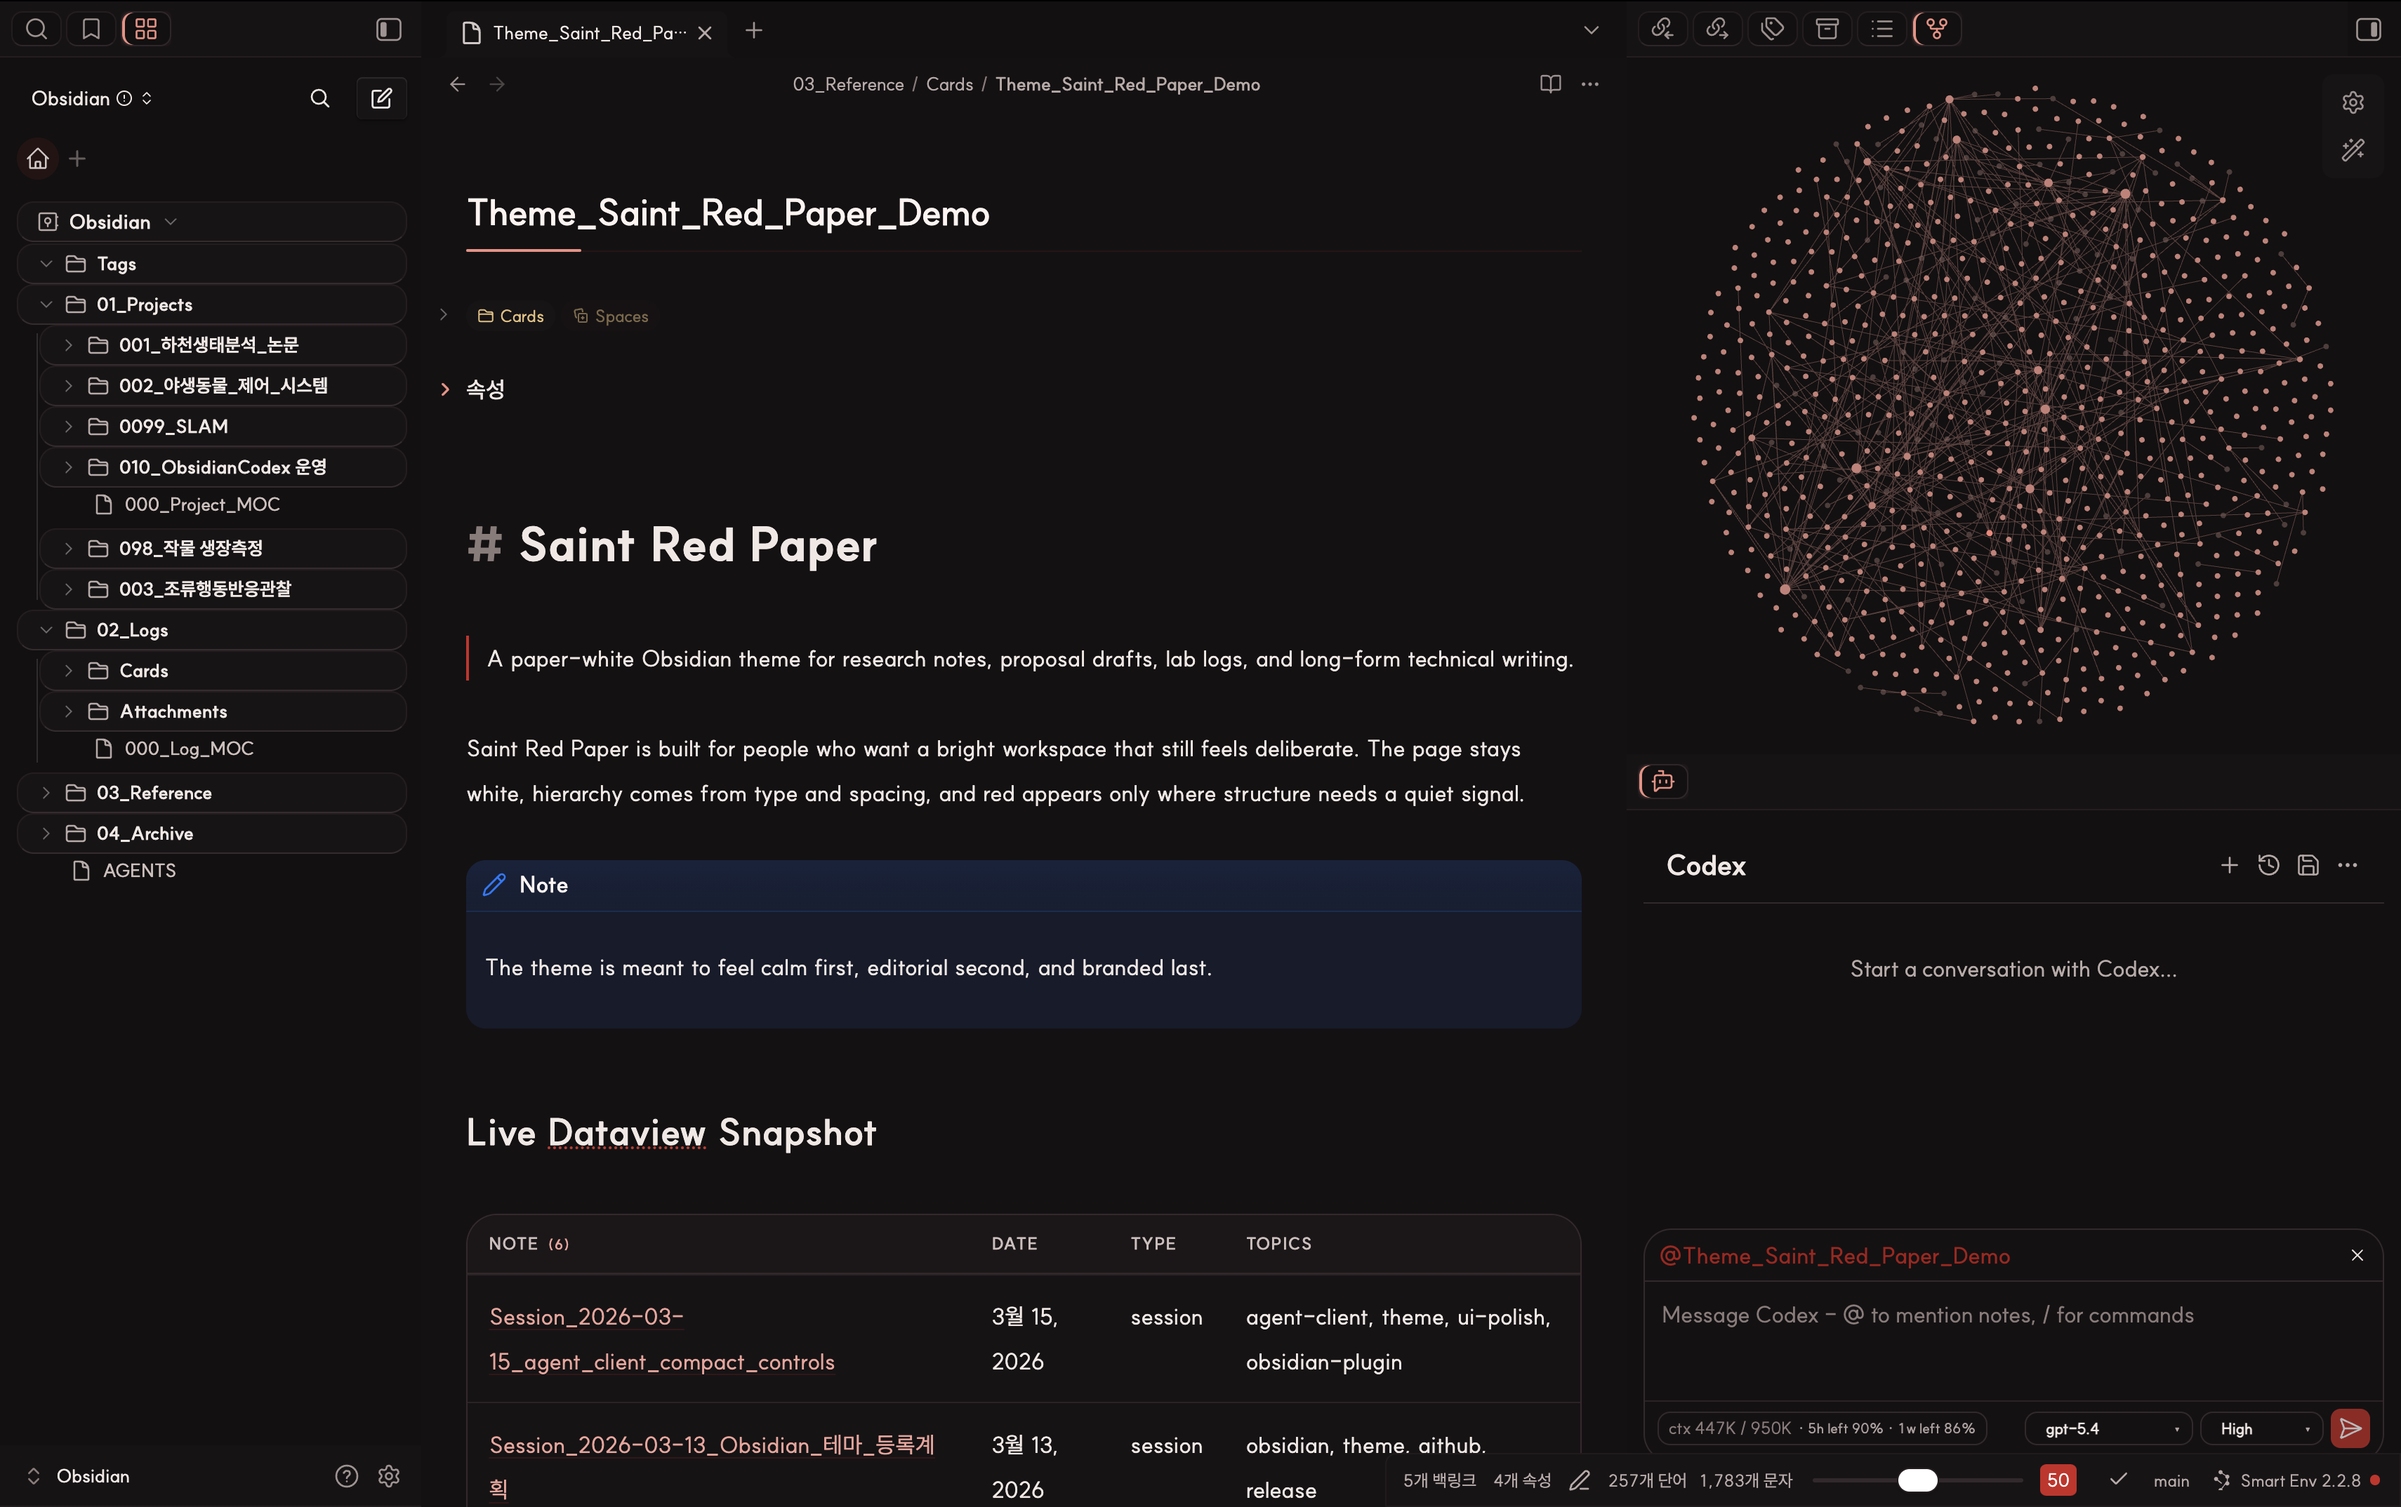
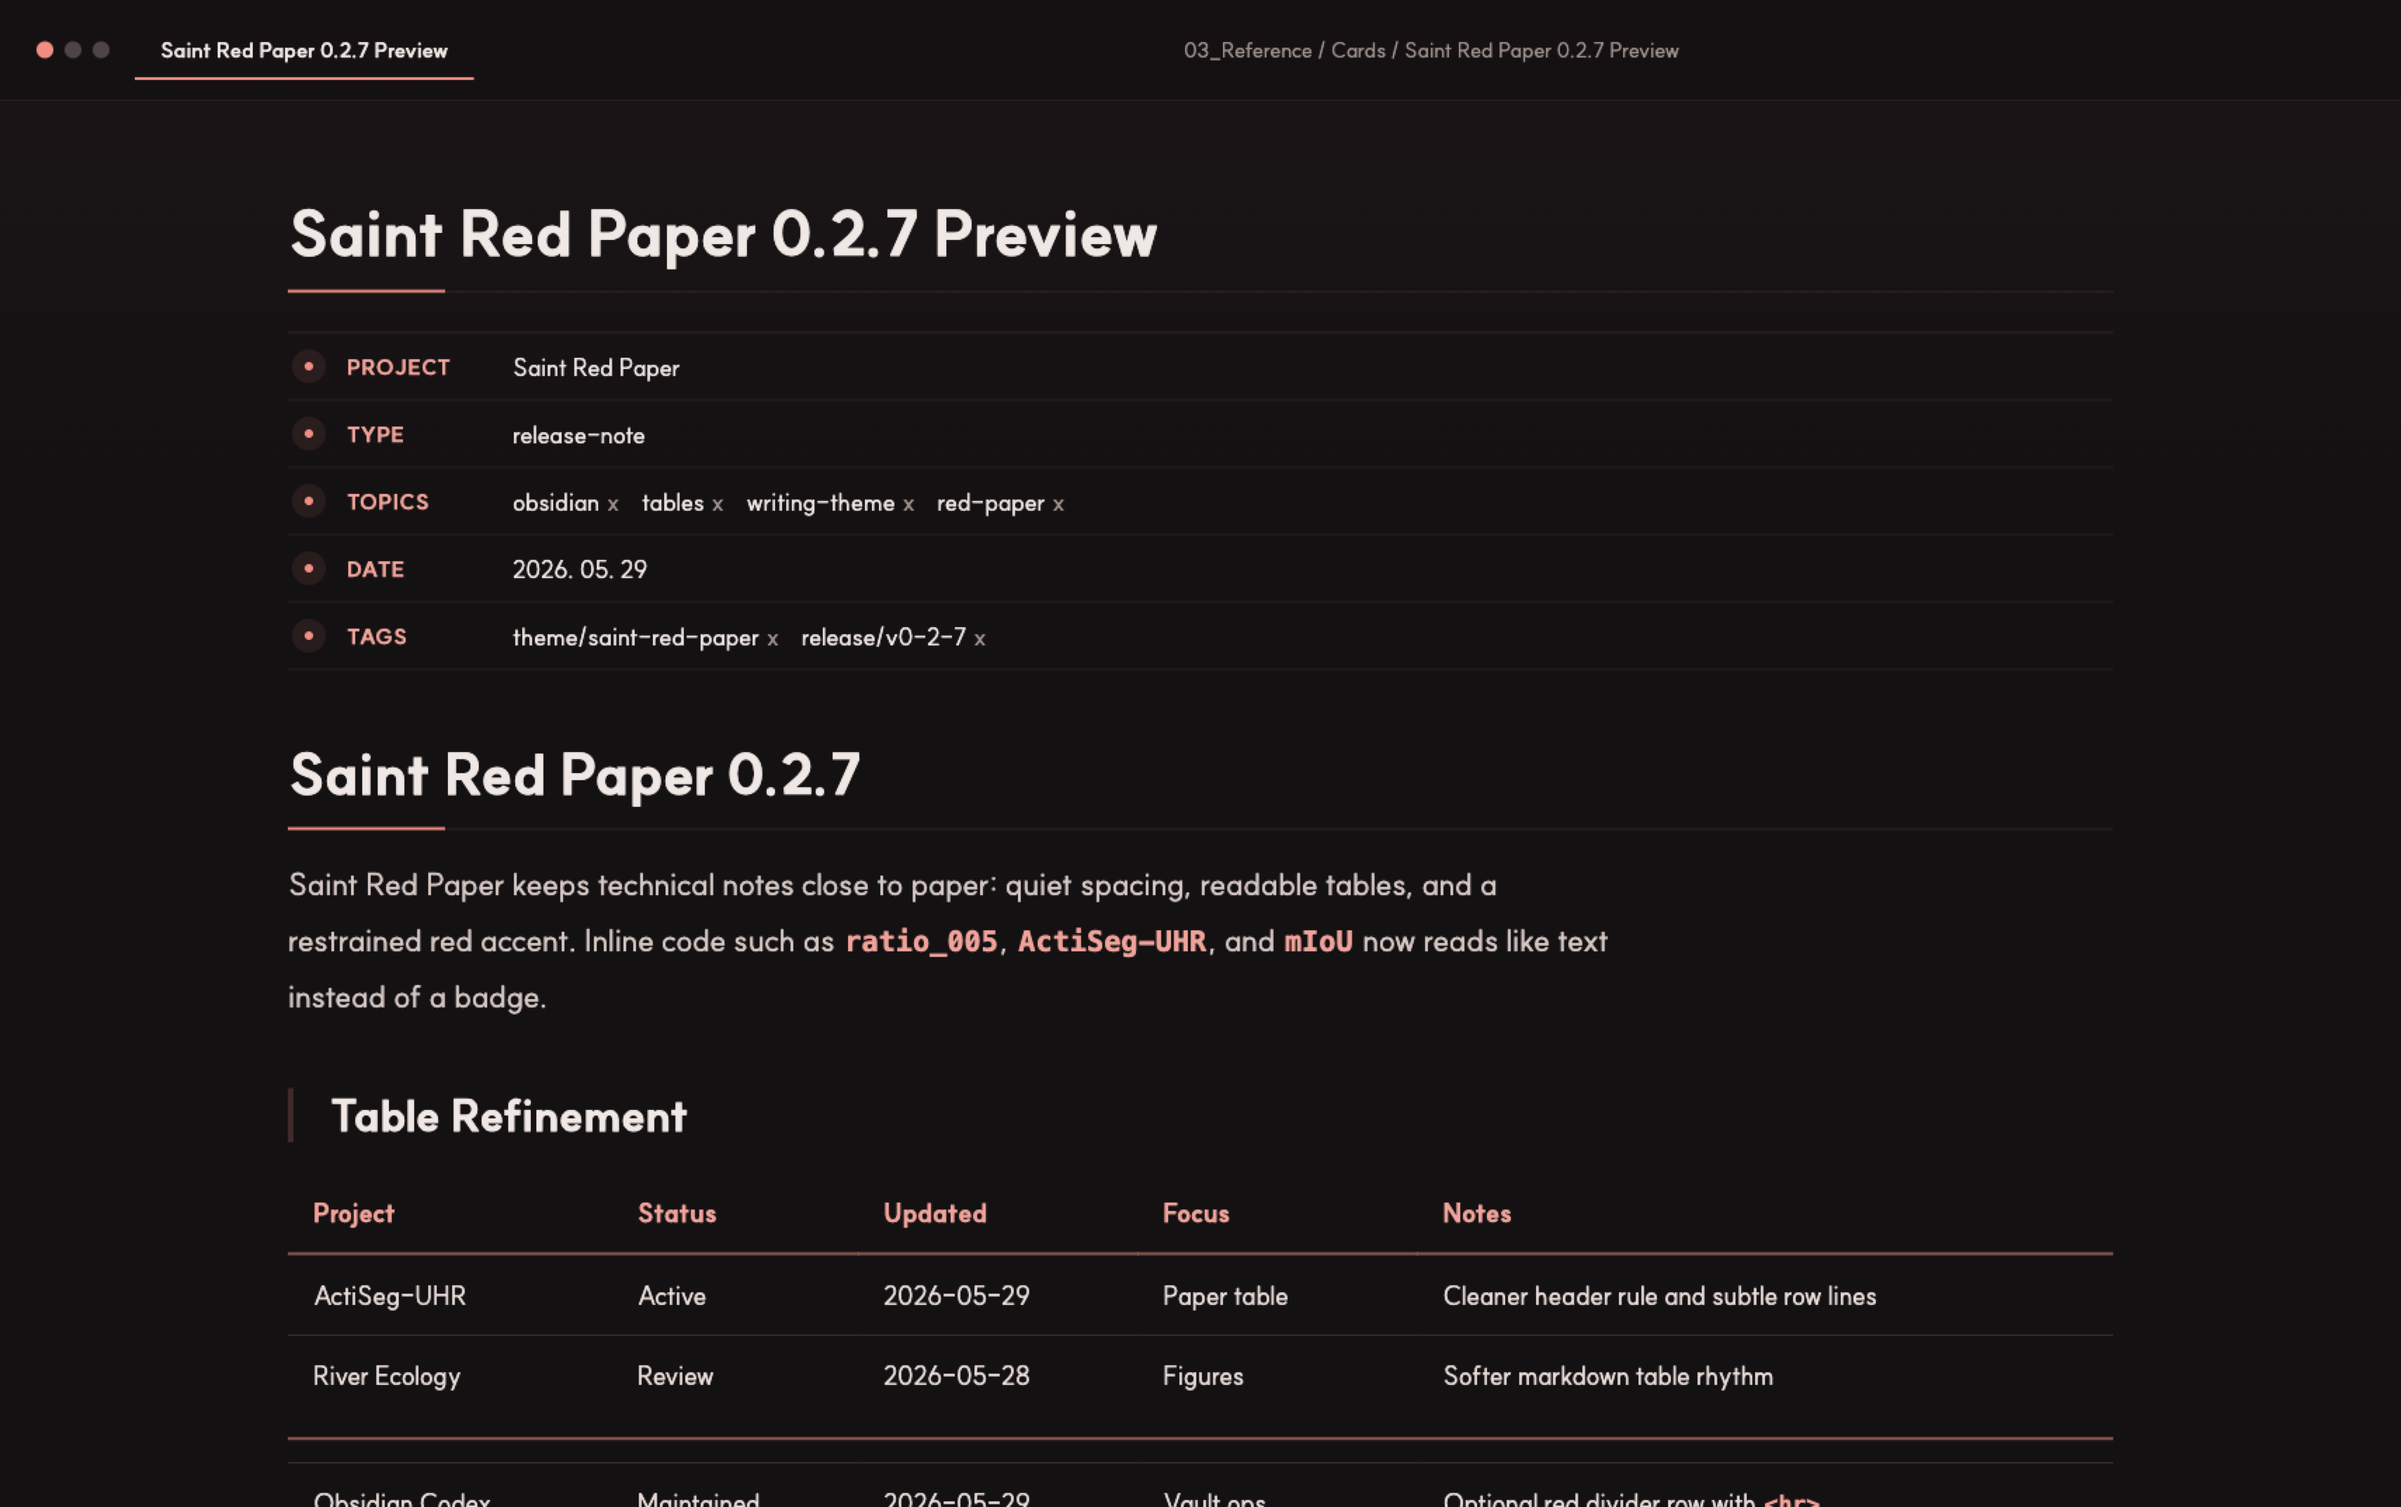
Release Saint Red Paper 0.2.7

diff --git a/theme.css b/theme.css
@@ -512,13 +512,11 @@ body,
   --srp-tag-bg: #fff8f4;
   --srp-tag-border: rgba(179, 38, 34, 0.18);
   --srp-tag-text: #9f1d1d;
-  --srp-inline-code-bg: #fff1ea;
-  --srp-inline-code-border: rgba(143, 32, 29, 0.16);
+  --srp-inline-code-bg: transparent;
+  --srp-inline-code-border: transparent;
   --srp-inline-code-text: #8f201d;
-  --srp-inline-code-shadow:
-    0 1px 0 rgba(255, 255, 255, 0.9) inset,
-    0 1px 2px rgba(122, 79, 73, 0.08);
-  --code-styler-inline-background-colour: #fff1ea;
+  --srp-inline-code-shadow: none;
+  --code-styler-inline-background-colour: transparent;
   --code-styler-inline-colour: #8f201d;
   --code-styler-inline-colour-active: #8f201d;
 }
@@ -849,10 +847,10 @@ body,
   background-color: var(--srp-inline-code-bg) !important;
   background-image: none !important;
   border: 1px solid var(--srp-inline-code-border) !important;
-  border-radius: 0.62em;
-  padding: 0.14em 0.5em;
+  border-radius: 0;
+  padding: 0 0.08em;
   font-weight: 680;
-  letter-spacing: -0.01em;
+  letter-spacing: 0;
   box-shadow: var(--srp-inline-code-shadow) !important;
 }
 
@@ -863,11 +861,9 @@ body,
 .theme-light .cm-s-obsidian span.cm-inline-code,
 .theme-light .markdown-source-view.mod-cm6 .cm-inline-code {
   color: #8f201d !important;
-  background-color: #fff1ea !important;
-  border: 1px solid rgba(143, 32, 29, 0.16) !important;
-  box-shadow:
-    0 1px 0 rgba(255, 255, 255, 0.9) inset,
-    0 1px 2px rgba(122, 79, 73, 0.08) !important;
+  background-color: transparent !important;
+  border-color: transparent !important;
+  box-shadow: none !important;
 }
 
 .theme-dark .markdown-preview-view :not(pre) > code,
@@ -1618,9 +1614,9 @@ a.tag,
 }
 
 :is(.theme-light, .theme-dark) .multi-select-pill {
-  border-radius: 999px;
-  border: 1px solid color-mix(in srgb, var(--srp-props-border) 92%, transparent);
-  background: color-mix(in srgb, var(--background-primary) 86%, rgba(205, 38, 35, 0.12));
+  border-radius: 0;
+  border-color: transparent;
+  background: transparent;
 }
 
 :is(.theme-light, .theme-dark) .metadata-container .multi-select-pill-content,
@@ -1628,7 +1624,7 @@ a.tag,
 :is(.theme-light, .theme-dark) .metadata-container a.internal-link,
 :is(.theme-light, .theme-dark) .metadata-container a.external-link,
 :is(.theme-light, .theme-dark) .metadata-container .metadata-link-inner {
-  color: var(--gh-sidebar-accent-custom, var(--gh-sidebar-accent)) !important;
+  color: var(--text-normal) !important;
 }
 
 :is(.theme-light, .theme-dark) .metadata-container .clickable-icon[aria-label="일일 노트 열기"] {
@@ -1914,13 +1910,15 @@ settings:
   --srp-table-padding-y: var(--srp-table-padding-y-custom, 0.30em);
   --srp-table-outer-border: var(--srp-table-outer-border-custom, var(--background-modifier-border));
   --srp-markdown-table-radius: 0px;
+  --srp-markdown-table-empty-row-padding-y: 0.14rem;
 }
 
 .theme-light {
   --srp-markdown-table-surface: transparent;
   --srp-markdown-table-header: transparent;
-  --srp-markdown-table-header-text: #544d4a;
-  --srp-markdown-table-rule: #e4d9d5;
+  --srp-markdown-table-header-text: #8f201d;
+  --srp-markdown-table-header-rule: #c74a43;
+  --srp-markdown-table-rule: #d8d0cc;
   --srp-markdown-table-stripe: transparent;
   --srp-markdown-table-hover: transparent;
   --srp-markdown-table-shadow: none;
@@ -1930,6 +1928,7 @@ settings:
   --srp-markdown-table-surface: transparent;
   --srp-markdown-table-header: transparent;
   --srp-markdown-table-header-text: #d7cbc7;
+  --srp-markdown-table-header-rule: #34282a;
   --srp-markdown-table-rule: #3a2d2f;
   --srp-markdown-table-stripe: transparent;
   --srp-markdown-table-hover: transparent;
@@ -1960,13 +1959,13 @@ settings:
   border-spacing: 0;
   background: transparent;
   box-shadow: none;
-  border-top: 1px solid color-mix(in srgb, var(--srp-table-outer-border) 88%, transparent);
-  border-bottom: 1px solid color-mix(in srgb, var(--srp-table-outer-border) 88%, transparent);
+  border: 0;
 }
 
 :is(.theme-light, .theme-dark) :is(.markdown-rendered, .markdown-preview-view)
   :where(table:not(.table-view-table), .table-editor) :is(th, td) {
-  padding: calc(var(--srp-table-padding-y) + 0.18em) 0.9rem;
+  border-right: 0 !important;
+  border-left: 0 !important;
   vertical-align: top;
 }
 
@@ -1981,22 +1980,63 @@ settings:
   background-color: transparent !important;
   color: var(--srp-markdown-table-header-text);
   border-top: 0;
-  border-bottom: 1px solid var(--srp-markdown-table-rule);
-  font-size: 0.8rem;
+  border-bottom: 2px solid var(--srp-markdown-table-header-rule);
+  padding: calc(var(--srp-table-padding-y) + 0.32em) 0.9rem;
+  font-size: inherit;
   font-weight: 720;
-  letter-spacing: 0.01em;
+  letter-spacing: 0;
   text-transform: none;
 }
 
 :is(.theme-light, .theme-dark) :is(.markdown-rendered, .markdown-preview-view)
   :where(table:not(.table-view-table), .table-editor) td {
-  border-top: 1px solid color-mix(in srgb, var(--srp-markdown-table-rule) 88%, transparent);
+  border-color: transparent !important;
+  border-top: 1px solid color-mix(in srgb, var(--srp-markdown-table-rule) 86%, transparent) !important;
+  padding: calc(var(--srp-table-padding-y) + 0.12em) 0.9rem;
   background: transparent;
+}
+
+:is(.theme-light, .theme-dark) :is(.markdown-rendered, .markdown-preview-view)
+  :where(table:not(.table-view-table), .table-editor) tbody tr,
+:is(.theme-light, .theme-dark) :is(.markdown-rendered, .markdown-preview-view)
+  :where(table:not(.table-view-table), .table-editor) tbody td {
+  border-bottom-color: transparent !important;
+  box-shadow: none !important;
+}
+
+:is(.theme-light, .theme-dark) :is(.markdown-rendered, .markdown-preview-view)
+  :where(table:not(.table-view-table), .table-editor) tbody tr:first-child td {
+  border-top: 0;
 }
 
 :is(.theme-light, .theme-dark) :is(.markdown-rendered, .markdown-preview-view)
   :where(table:not(.table-view-table), .table-editor) tbody tr:hover td {
   background: transparent;
+}
+
+:is(.theme-light, .theme-dark) :is(.markdown-rendered, .markdown-preview-view)
+  :where(table:not(.table-view-table), .table-editor) tbody tr
+  :is(td:empty, td:has(> br:only-child)) {
+  padding-top: var(--srp-markdown-table-empty-row-padding-y);
+  padding-bottom: var(--srp-markdown-table-empty-row-padding-y);
+  line-height: 0.8;
+}
+
+:is(.theme-light, .theme-dark) :is(.markdown-rendered, .markdown-preview-view)
+  :where(table:not(.table-view-table), .table-editor) tbody tr:has(:is(hr, .srp-table-divider)) td {
+  background:
+    linear-gradient(
+      to bottom,
+      transparent calc(50% - 1px),
+      color-mix(in srgb, var(--srp-markdown-table-header-rule) 78%, transparent) calc(50% - 1px),
+      color-mix(in srgb, var(--srp-markdown-table-header-rule) 78%, transparent) calc(50% + 1px),
+      transparent calc(50% + 1px)
+    ) !important;
+}
+
+:is(.theme-light, .theme-dark) :is(.markdown-rendered, .markdown-preview-view)
+  :where(table:not(.table-view-table), .table-editor) :is(hr, .srp-table-divider) {
+  display: none !important;
 }
 
 :is(.theme-light, .theme-dark) :is(.markdown-rendered, .markdown-preview-view)
@@ -2019,21 +2059,19 @@ settings:
 /* Dataview showcase styling */
 
 :is(.theme-light, .theme-dark) {
-  --srp-dataview-radius: 22px;
-  --srp-dataview-radius-inner: 20px;
+  --srp-dataview-radius: 4px;
+  --srp-dataview-radius-inner: 0px;
 }
 
 .theme-light {
   --srp-dataview-surface: #ffffff;
-  --srp-dataview-border: #e6d8d2;
-  --srp-dataview-shadow:
-    0 24px 46px -30px rgba(122, 79, 73, 0.24),
-    0 12px 24px -22px rgba(205, 38, 35, 0.10);
+  --srp-dataview-border: transparent;
+  --srp-dataview-shadow: none;
   --srp-dataview-header-surface: #ffffff;
-  --srp-dataview-header-border: #dfcdc8;
-  --srp-dataview-header-text: #6f6461;
-  --srp-dataview-row-border: #eadeda;
-  --srp-dataview-row-hover: #ffffff;
+  --srp-dataview-header-border: #c74a43;
+  --srp-dataview-header-text: #8f201d;
+  --srp-dataview-row-border: transparent;
+  --srp-dataview-row-hover: #fffafa;
 }
 
 .theme-dark {
@@ -2091,15 +2129,15 @@ settings:
 
 :is(.theme-light, .theme-dark) :is(.markdown-rendered, .markdown-preview-view)
   :where(.table-view-th, table.dataview th) {
-  padding: 0.66rem 0.95rem;
+  padding: 0.58rem 0.9rem;
   background: none;
   background-color: var(--srp-dataview-header-surface) !important;
-  border-bottom: 1px solid var(--srp-dataview-header-border);
+  border-bottom: 2px solid var(--srp-dataview-header-border);
   color: var(--srp-dataview-header-text);
-  font-size: 0.74rem;
+  font-size: inherit;
   font-weight: 700;
-  letter-spacing: 0.06em;
-  text-transform: uppercase;
+  letter-spacing: 0;
+  text-transform: none;
 }
 
 :is(.theme-light, .theme-dark) :is(.markdown-rendered, .markdown-preview-view)
@@ -2111,8 +2149,8 @@ settings:
 
 :is(.theme-light, .theme-dark) :is(.markdown-rendered, .markdown-preview-view)
   :where(.table-view-td, table.dataview td) {
-  padding: 0.64rem 0.95rem;
-  border-top: 1px solid var(--srp-dataview-row-border);
+  padding: 0.56rem 0.9rem;
+  border-color: transparent !important;
   vertical-align: top;
 }
 
@@ -2143,7 +2181,13 @@ settings:
 
 :is(.theme-light, .theme-dark) :is(.markdown-rendered, .markdown-preview-view)
   :where(.table-view-table, table.dataview) a.internal-link {
+  color: var(--text-normal);
   text-decoration-thickness: 1px;
+}
+
+:is(.theme-light, .theme-dark) :is(.markdown-rendered, .markdown-preview-view)
+  :where(.table-view-table, table.dataview) a.internal-link:hover {
+  color: var(--srp-link-custom, var(--srp-link));
 }
 
 /* Agent Client panel refinement

diff --git a/README.md b/README.md
@@ -43,7 +43,8 @@ Notes:
 - Keeps the main canvas close to white paper instead of tinting the whole workspace
 - Tunes headings, spacing, blockquotes, callouts, and inline code for reading-heavy notes
 - Gives sidebars, root tabs, links, tags, and notices a restrained red-paper language
-- Adds a paper-like treatment for Dataview result tables so they feel closer to notes than widgets
+- Adds a paper-like treatment for Markdown and Dataview tables so they feel closer to notes than widgets
+- Supports optional red table dividers with a simple `<hr>` marker row
 - Extends the same visual language into a matching dark mode instead of leaving dark as a token-only fallback
 - Adds a compact optional styling layer for `Agent Client` controls when that plugin is installed
 - Fits well with `make.md`'s `Navigator` panel if you want the workspace captures to feel closer to the author's setup
@@ -107,6 +108,20 @@ It is a weaker fit for dashboard-heavy, card-heavy, or heavily gamified workspac
 - Interface mode: Light
 - Accent color: `#cd2623` if you want the OS-level accent to sit close to the theme palette
 - Snippets: Disable older overlapping table/sidebar snippets once this theme is enabled
+
+## Markdown table dividers
+
+Saint Red Paper supports an optional red divider row inside Markdown tables. Add a blank table row where you want the divider, then put `<hr>` in the first cell:
+
+```md
+| Project | Status | Updated |
+| ------- | ------ | ------- |
+| A       | Done   | Today   |
+| <hr>    |        |         |
+| B       | Todo   | Tomorrow |
+```
+
+The theme hides the `<hr>` text and renders that row as a red horizontal divider across the table. Plain empty rows stay plain; the divider appears only where the `<hr>` marker is used.
 
 ## Exposed Style Settings controls
 

diff --git a/CHANGELOG.md b/CHANGELOG.md
@@ -2,6 +2,12 @@
 
 ## Unreleased
 
+## 0.2.7 - 2026-05-29
+
+- Refined Markdown and Dataview tables around a cleaner paper-like layout: no outer red box, a stronger red header rule, subtle body row rules, and less rounded framing.
+- Added optional red table dividers for Markdown tables. Put `<hr>` in the first cell of a blank row to render a red divider across the table.
+- Simplified inline code in light mode so backtick text uses the same red tone as table headers without a filled chip background or border.
+- Simplified Properties multi-value pills for topics, tags, and aliases by removing the rounded capsule background and using normal text color for the values.
 - Refined the optional `Agent Client` surface for research-oriented use, including stronger light-mode inline code accents, a cleaner empty-state treatment, a layered composer well, and a softer diagonal background glow behind the conversation area.
 
 ## 0.2.6 - 2026-03-15
